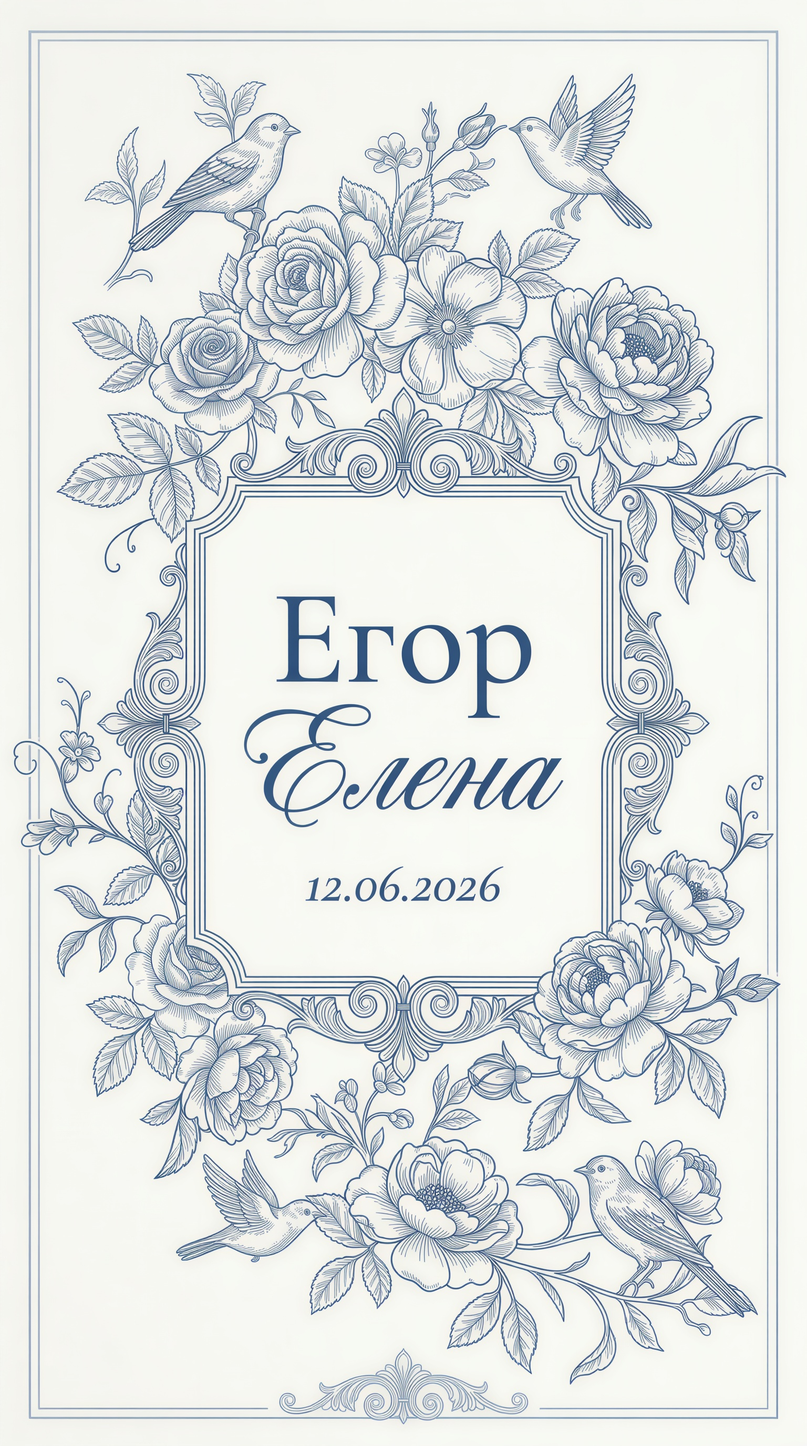
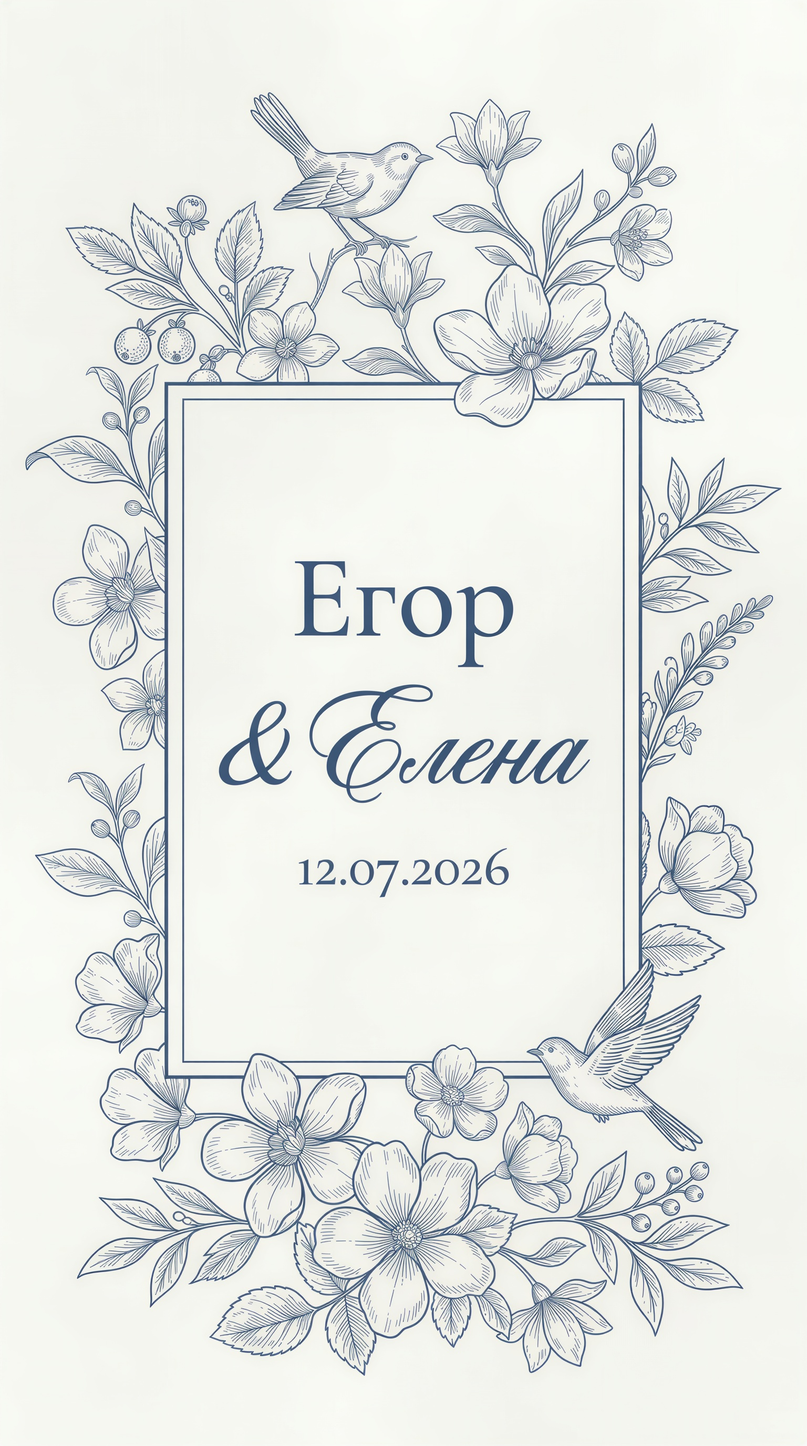
VIsual fixes

diff --git a/src/components/Envelope/GuestText.jsx b/src/components/Envelope/GuestText.jsx
@@ -3,10 +3,10 @@ import DateCounter from './DateCounter';
 const GuestText = () => {
 	return (
 		<>
-			<section className="relative w-full overflow-hidden bg-white/75 border border-(--color-border)/80 shadow-(--shadow-card) rounded-[24px] md:rounded-[28px] px-4 md:px-10 lg:px-14 py-8 md:py-10">
+			<section className="relative w-full overflow-hidden bg-white/75 border border-(--color-border)/80 shadow-(--shadow-card) rounded-[24px] md:rounded-[28px] px-4 md:px-10 lg:px-14 py-8 md:py-10 ">
 				<div
 					aria-hidden="true"
-					className="right-[-2%] bottom-[-6%] absolute opacity-10 md:opacity-30 w-2/3 md:w-1/2 lg:w-[58%] h-2/3 md:h-3/4 lg:h-[95%] pointer-events-none select-none"
+					className="right-[-2%] bottom-[-6%] z-1 absolute opacity-10 md:opacity-30 w-2/3 md:w-1/2 lg:w-[58%] h-2/3 md:h-3/4 lg:h-[95%] pointer-events-none select-none"
 					style={{
 						backgroundImage: "url('/img/counter-bg.png')",
 						backgroundRepeat: 'no-repeat',
@@ -14,26 +14,62 @@ const GuestText = () => {
 						backgroundSize: 'contain',
 					}}
 				/>
-				<div className="space-y-3 md:space-y-4 mb-8 md:mb-10 text-center">
-					<h2 className="font-display text-3xl md:text-4xl lg:text-[3.25rem] tracking-[0.08em]  text-(--color-ink)">
-						Дорогие родные и близкие!
-					</h2>
-				</div>
-				<div className="flex flex-col items-center text-center">
-					<p className="font-body text-sm md:text-base text-(--color-ink-muted) leading-relaxed max-w-xl">
-						В нашей жизни скоро состоится важное и радостное для нас событие - наша свадьба! Мы вас очень любим и будем счастливы, если вы проведете вместе с нами этот особенный день.
-					</p>
-				</div>
-				<div className="flex flex-col gap-3">
-					<p className="font-ui text-[0.55rem] md:text-xs tracking-[0.24em] uppercase text-(--color-ink-muted) text-center">
-						До нашей свадьбы осталось
-					</p>
-					<DateCounter />
-				</div>
-				<div className="text-center">
-					<p className="font-body text-xs md:text-sm text-(--color-ink-muted) leading-relaxed">
-						Приглашаем вас разделить с нами радость этого дня.
-					</p>
+				<div className="z-2 relative">
+					<div className="space-y-3 md:space-y-4 mb-8 md:mb-10 text-center">
+						<h2 className="font-display text-3xl md:text-4xl lg:text-[3.25rem] tracking-[0.08em]  text-(--color-ink)">
+							Дорогие родные и близкие!
+						</h2>
+					</div>
+					<div className="flex flex-col text-left">
+						<p className="font-body text-sm md:text-base text-(--color-ink-muted) leading-relaxed max-w-xl">
+							В нашей жизни скоро состоится важное и радостное для нас событие - наша свадьба! Мы вас очень любим и будем счастливы, если вы проведете вместе с нами этот особенный день.
+						</p>
+					</div>
+					<div className="flex flex-col items-center gap-3 md:gap-4 mt-6">
+						<div className="flex flex-col items-center gap-2 md:gap-3 text-(--color-ink)">
+							<p className="font-ui text-xs md:text-sm uppercase tracking-[0.22em]">
+								Ию<span className="decoration-2 underline underline-offset-4">ль</span>
+							</p>
+							<div className="grid grid-cols-7 gap-x-2 gap-y-2 sm:gap-x-3 sm:gap-y-2.5 md:gap-x-4 md:gap-y-3 font-ui text-(--color-ink)">
+								{['пн', 'вт', 'ср', 'чт', 'пт', 'сб', 'вс'].map((day) => (
+									<span key={day} className="text-[0.7rem] sm:text-sm md:text-base text-center uppercase">
+										{day}
+									</span>
+								))}
+								{['06', '07', '08', '09', '10', '11'].map((date) => (
+									<span key={date} className="flex justify-center items-center row-start-2 h-8 sm:h-9 md:h-10 text-[0.75rem] sm:text-base md:text-lg">
+										{date}
+									</span>
+								))}
+								<span className="relative flex justify-center items-center row-start-2 h-8 sm:h-9 md:h-10">
+									<span className="z-10 relative text-[0.75rem] sm:text-base md:text-lg">12</span>
+									<svg
+										className="absolute md:right-[-12px] right-[-11px] -bottom-px  m-auto z-0 w-8 h-8 sm:w-9 sm:h-9 md:w-10 md:h-10 text-(--color-ink)"
+										viewBox="0 0 36 32"
+										fill="none"
+										aria-hidden="true"
+									>
+										<path
+											d="M18 30.5C16.6 29.2 10.2 23.4 7.4 20.8C4.4 18 2 15.4 2 11.6C2 7.4 5 4.5 8.9 4.5C11.7 4.5 14.2 6.1 15.5 8.2C16.8 6.1 19.3 4.5 22.1 4.5C26 4.5 29 7.4 29 11.6C29 15.4 26.6 18 23.6 20.8C20.8 23.4 14.4 29.2 13 30.5"
+											stroke="currentColor"
+											strokeWidth="2.25"
+											strokeLinecap="round"
+											strokeLinejoin="round"
+										/>
+									</svg>
+								</span>
+							</div>
+						</div>
+						{/* <p className="font-ui text-[0.55rem] md:text-xs tracking-[0.24em] uppercase text-(--color-ink-muted) text-center">
+							До нашей свадьбы осталось
+						</p>
+						<DateCounter /> */}
+					</div>
+					{/* <div className="mt-3 text-center">
+						<p className="font-body text-xs md:text-sm text-(--color-ink-muted) leading-relaxed">
+							Приглашаем вас разделить с нами радость этого дня.
+						</p>
+					</div> */}
 				</div>
 			</section>
 		</>

diff --git a/src/components/Envelope/Location.jsx b/src/components/Envelope/Location.jsx
@@ -2,11 +2,11 @@ const Location = () => {
 	return (
 		<section className="w-full bg-white/75 border border-(--color-border)/80 shadow-(--shadow-card) rounded-[24px] md:rounded-[28px] px-4 md:px-10 lg:px-14 py-8 md:py-10 text-center">
 			<div className="space-y-3 md:space-y-4 mb-8 md:mb-10">
-				<h2 className="font-display text-3xl md:text-4xl lg:text-[3.25rem] tracking-[0.08em] uppercase text-(--color-ink)">
+				<h2 className="font-display text-3xl md:text-4xl lg:text-[3.25rem] tracking-[0.08em]  text-(--color-ink)">
 					Локация
 				</h2>
 				<p className="font-ui text-[0.55rem] md:text-xs tracking-[0.24em] uppercase text-(--color-ink-muted) text-center">
-					Место проведения
+					Здесь состоится наша свадьба
 				</p>
 				<p className="font-body text-base md:text-lg text-(--color-ink) mt-2">
 					Wooden Villa, агрогородок Колодищи, Узлесная ул., 58, Беларусь
@@ -14,7 +14,7 @@ const Location = () => {
 			</div>
 
 			<div className="flex flex-col items-center gap-8 md:gap-9">
-				<div className="w-full max-w-3xl mx-auto rounded-[18px] md:rounded-[22px] overflow-hidden border border-(--color-border)/70 bg-white/70 shadow-soft">
+				<div className="w-full max-w-2xl mx-auto rounded-[18px] md:rounded-[22px] overflow-hidden border border-(--color-border)/70 bg-white/70 shadow-soft">
 					<a href="https://yandex.com/maps/-/CPqrmFN3"
 						target="_blank"
 						rel="noreferrer"

diff --git a/src/components/Envelope/LetterContent.jsx b/src/components/Envelope/LetterContent.jsx
@@ -11,27 +11,27 @@ const LetterContent = () => {
 		<section className="w-full bg-(--color-surface) text-(--color-ink) border border-(--color-border) shadow-(--shadow-card) rounded-md px-6 md:px-10 lg:px-16 py-10 md:py-14 letter-modal pb-15 md:pb-10">
 			<div className="flex flex-col gap-6 md:gap-8 space-y-6 md:space-y-8">
 
-				<div className="w-full">
+				<div className="flex w-full xl:min-h-[600px]">
 					<WelcomeBlock />
 				</div>
 
-				<div className="w-full">
+				<div className="flex w-full xl:min-h-[600px]">
 					<GuestText />
 				</div>
 
-				<div className="w-full">
+				<div className="flex w-full xl:min-h-[600px]">
 					<Location />
 				</div>
 
-				<div className="w-full">
+				<div className="flex w-full xl:min-h-[600px]">
 					<Steps />
 				</div>
 
-				<div className="w-full">
+				<div className="flex w-full xl:min-h-[600px]">
 					<DressCode />
 				</div>
 
-				<div className="w-full">
+				<div className="flex w-full xl:min-h-[600px]">
 					<Form />
 				</div>
 

diff --git a/src/components/Envelope/Steps.jsx b/src/components/Envelope/Steps.jsx
@@ -16,7 +16,7 @@ const Steps = () => {
 			<div className="z-1 relative space-y-4 md:space-y-6 text-center">
 				<div className="space-y-3 md:space-y-4 mb-8 md:mb-10">
 					<h2 className="font-display text-3xl md:text-4xl lg:text-[3.25rem] tracking-[0.08em]  text-(--color-ink)">
-						Шаги дня
+						Программа свадебного дня
 					</h2>
 					<p className="font-ui text-[0.55rem] md:text-xs tracking-[0.24em] uppercase text-(--color-ink-muted) text-center">
 						как будет проходить наш праздник
